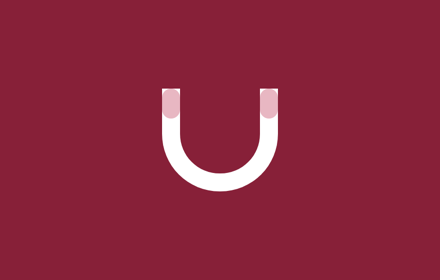
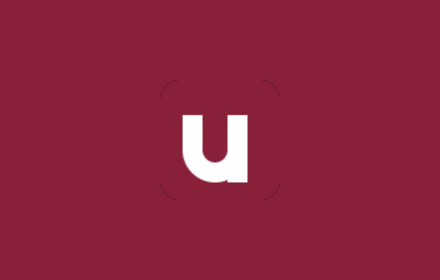
Refine extension branding

Changed region(s): [[0.3545, 0.3143, 0.65, 0.6857]]

diff --git a/entrypoints/sidepanel/App.tsx b/entrypoints/sidepanel/App.tsx
@@ -1,6 +1,6 @@
 import { CaptionsPanel } from './CaptionsPanel';
 import { useEffect, useRef, useState } from 'react';
-import { isRequest, type ErrorCode, type Request, type ListRequest, type Result } from '../../src/protocol';
+import { isRequest, type ErrorCode, type Request, type Result } from '../../src/protocol';
 import { queryActive } from '../../src/transport';
 import { ResultList } from './ResultList';
 const messages: Record<ErrorCode, string> = {
@@ -19,9 +19,9 @@ const messages: Record<ErrorCode, string> = {
   TAB_OPEN_FAILED: '새 탭을 열지 못했습니다. 목록을 다시 조회한 뒤 시도하세요.',
   BUSY: '이전 조회를 처리하고 있습니다. 잠시 후 다시 조회하세요.',
 };
-const tabs = [ ['COURSES_LIST', '내 과목'], ['ASSIGNMENTS_LIST', '과제'], ['DEADLINES_LIST', '마감일'], ['UPCOMING_LIST', 'Upcoming'], ['TODO_LIST', 'Todo'], ['RECORDINGS_LIST', '녹화 강의'], ['CAPTIONS', '자막 TXT'] ] as const;
+const tabs = [ ['COURSES_LIST', '내 과목'], ['ASSIGNMENTS_LIST', '과제'], ['DEADLINES_LIST', '마감일'], ['UPCOMING_LIST', '예정 일정'], ['TODO_LIST', 'Todo'], ['RECORDINGS_LIST', '녹화 강의'], ['CAPTIONS', '자막 TXT'] ] as const;
 export function App() {
-  const [view, setView] = useState<ListRequest['type'] | 'CAPTIONS'>('COURSES_LIST');
+  const [view, setView] = useState<(typeof tabs)[number][0]>('COURSES_LIST');
   const [course, setCourse] = useState('');
   const [start, setStart] = useState('');
   const [end, setEnd] = useState('');
@@ -29,13 +29,14 @@ export function App() {
   const generation = useRef(0);
   function clear() { generation.current++; setState({ status: 'idle' }); }
   useEffect(() => {
-    const reset = () => { generation.current++; setState({ status: 'idle' }); setCourse(''); };
+    const reset = () => { generation.current++; setState({ status: 'idle' }); setCourse(''); setView(previous => ['ASSIGNMENTS_LIST', 'DEADLINES_LIST', 'RECORDINGS_LIST'].includes(previous) ? 'COURSES_LIST' : previous); };
     const update = (_id: number, info: { status?: string }) => { if (info.status === 'loading') reset(); };
     chrome.tabs.onActivated.addListener(reset);
     chrome.tabs.onUpdated.addListener(update);
     return () => { chrome.tabs.onActivated.removeListener(reset); chrome.tabs.onUpdated.removeListener(update); generation.current++; };
   }, []);
   async function load(query: Request) {
+    if (!isRequest(query)) { clear(); return; }
     const current = ++generation.current;
     setState({ status: 'loading' });
     const result = await queryActive(query);
@@ -45,24 +46,31 @@ export function App() {
   const query: Request = needsCourse ? {version:1,type:view,course} : view === 'UPCOMING_LIST'
     ? {version:1,type:view,...(start ? {start_date:start} : {}),...(end ? {end_date:end} : {})} : {version:1,type:view === 'CAPTIONS' ? 'COURSES_LIST' : view};
   return <main>
-    <header><span className="mark" aria-hidden="true">u</span><div><h1>uniDock</h1><p>고려대학교 LMS</p></div><span className="badge">읽기 전용</span></header>
-    <section className="intro"><span className="eyebrow">MY CAMPUS</span><h2>오늘의 배움,<br/>한곳에서.</h2><p>과제와 일정을 기존 LMS 세션으로 확인하세요.</p></section>
-    <p className="hint">고려대학교와 제휴하지 않은 비공식 도구입니다. 조회를 누르면 현재 LMS 세션으로 과목·제출 상태·일정을 읽어 이 기기에 표시합니다. 개발자 서버로 전송하지 않습니다. <a href="privacy.html" target="_blank" rel="noreferrer">개인정보 처리방침</a></p>
-    <nav className="views" aria-label="조회 기능">{tabs.map(([type, label]) => <button key={type} aria-pressed={view === type} onClick={() => {clear();setView(type);}}>{label}</button>)}</nav>
-    {needsCourse && <label className="field">과목명<input value={course} maxLength={2000} placeholder="전체 과목명 또는 일부" onChange={event => {clear();setCourse(event.target.value);}}/><small>내 과목의 ‘과제 보기’로도 선택할 수 있습니다.</small></label>}
+    <header><span className="mark" aria-hidden="true">u</span><h1>uniDock</h1><span className="badge">읽기 전용</span></header>
+    <nav className="views" aria-label="주 메뉴">
+      <button aria-pressed={view === 'COURSES_LIST' || needsCourse} onClick={() => {setCourse('');setView('COURSES_LIST');void load({version:1,type:'COURSES_LIST'});}}>내 과목</button>
+      <button aria-pressed={view === 'UPCOMING_LIST'} onClick={() => {setCourse('');setView('UPCOMING_LIST');void load({version:1,type:'UPCOMING_LIST',...(start ? {start_date:start} : {}),...(end ? {end_date:end} : {})});}}>전체 일정</button>
+      <button aria-pressed={view === 'TODO_LIST'} onClick={() => {setCourse('');setView('TODO_LIST');void load({version:1,type:'TODO_LIST'});}}>Todo</button>
+      <button aria-pressed={view === 'CAPTIONS'} onClick={() => {clear();setCourse('');setView('CAPTIONS');}}>자막 TXT</button>
+    </nav>
+    {needsCourse && <section className="course-context">
+      <button className="back-link" onClick={() => {setCourse('');setView('COURSES_LIST');void load({version:1,type:'COURSES_LIST'});}}>← 과목 선택</button>
+      <h2>{course}</h2>
+      <nav className="subviews" aria-label="과목 메뉴">{([['ASSIGNMENTS_LIST','과제'],['DEADLINES_LIST','마감일'],['RECORDINGS_LIST','녹화 강의']] as const).map(([type,label]) => <button key={type} aria-pressed={view === type} onClick={() => {setView(type);void load({version:1,type,course});}}>{label}</button>)}</nav>
+    </section>}
     {view === 'UPCOMING_LIST' && <div className="date-fields"><label className="field">시작일 (선택)<input type="date" value={start} onChange={event => {clear();setStart(event.target.value);}}/></label><label className="field">종료일 (선택)<input type="date" value={end} onChange={event => {clear();setEnd(event.target.value);}}/></label></div>}
     {view === 'UPCOMING_LIST' && start && end && start > end && <p className="filter-error">종료일은 시작일 이후여야 합니다.</p>}
     {view === 'CAPTIONS' ? <CaptionsPanel/> : <>
-    <div className="toolbar"><h3>{tabs.find(([type]) => type === view)?.[1]}</h3><button onClick={() => void load(query)} disabled={state.status === 'loading' || !isRequest(query)}>{state.status === 'loading' ? '조회 중…' : '조회'}</button></div>
+    <div className="toolbar"><h3>{tabs.find(([type]) => type === view)?.[1]}</h3><button onClick={() => void load(query)} disabled={state.status === 'loading' || !isRequest(query)}>{state.status === 'loading' ? '조회 중…' : state.status === 'success' ? '새로고침' : '조회'}</button></div>
     {view === 'RECORDINGS_LIST' && <p className="hint">외부 도구 항목 중 녹화 강의 후보를 표시합니다. LTI 탭은 LMS를 거쳐 열립니다. 재생은 열린 LMS에서 직접 조작하세요. LMS 자체 재생으로 시청·출석 기록이 반영될 수 있습니다.</p>}
     {view === 'DEADLINES_LIST' && <p className="hint">모든 과제를 표시합니다. ‘남은 후보’는 미제출·잠금 해제·미래 마감 기준이며 실제 제출 가능 여부는 LMS에서 확인하세요.</p>}
     <section aria-live="polite" aria-busy={state.status === 'loading'}>
-      {state.status === 'idle' && <div className="notice"><strong>조회할 준비가 되었나요?</strong><p>LMS 탭을 선택하고 조회를 누르세요.</p></div>}
+      {state.status === 'idle' && <div className="notice"><strong>{view === 'COURSES_LIST' ? '내 과목부터 시작하세요.' : '일정을 확인하세요.'}</strong><p>{view === 'COURSES_LIST' ? 'LMS 탭을 선택하고 조회를 누르세요. 과목을 선택하면 과제·마감일·녹화 강의를 확인할 수 있습니다.' : view === 'TODO_LIST' ? '조회 버튼을 눌러 할 일을 불러오세요.' : '조회 버튼을 눌러 선택한 기간의 일정을 불러오세요.'}</p></div>}
       {state.status === 'loading' && <div className="notice">목록을 불러오고 있습니다…</div>}
       {state.status === 'error' && <div className="notice error"><strong>{state.code === 'LOGIN_REQUIRED' ? '로그인 필요' : '조회 안내'}</strong><p>{messages[state.code]}</p></div>}
       {state.status === 'success' && <ResultList result={state} onRecordings={name => {setCourse(name);setView('RECORDINGS_LIST');void load({version:1,type:'RECORDINGS_LIST',course:name});}} onRecording={handle => {void load({version:1,type:'RECORDING_OPEN',handle});}} onCourse={name => {setCourse(name);setView('ASSIGNMENTS_LIST');void load({version:1,type:'ASSIGNMENTS_LIST',course:name});}}/>}
     </section></>}
     <a className="lms-link" href="https://mylms.korea.ac.kr/" target="_blank" rel="noreferrer">LMS 열기 ↗</a>
-    <footer>기존 로그인 세션만 사용합니다.<br/>직접 다운로드한 자막 TXT 외에는 저장하지 않습니다.</footer>
+    <footer>조회 시 현재 LMS 세션의 정보를 이 기기에 표시합니다.<br/>개발자 서버로 전송하지 않으며, 직접 다운로드한 자막 TXT 외에는 저장하지 않습니다. <a href="privacy.html" target="_blank" rel="noreferrer">개인정보 처리방침</a><p>고려대학교와 제휴하지 않은 비공식 도구입니다.</p></footer>
   </main>;
 }

diff --git a/entrypoints/sidepanel/style.css b/entrypoints/sidepanel/style.css
@@ -1,3 +1,5 @@
 :root{font-family:system-ui,-apple-system,BlinkMacSystemFont,sans-serif;color:#24242b;background:#f8f7f5;font-synthesis:none}*{box-sizing:border-box}body{margin:0}main{padding:24px 20px;max-width:560px;margin:auto}header{display:flex;align-items:center;gap:10px}.mark{display:grid;place-items:center;background:#872038;color:white;width:38px;height:38px;border-radius:12px;font-size:28px;font-weight:800}h1{font-size:20px;letter-spacing:-.7px;margin:0}header p{font-size:11px;margin:2px 0;color:#72717a}.badge{margin-left:auto;font-size:10px;color:#872038;border:1px solid #dcc4c9;border-radius:20px;padding:5px 8px;white-space:nowrap}.intro{margin:34px 0 30px}.eyebrow{font-size:10px;letter-spacing:2px;font-weight:700;color:#872038}h2{font-size:32px;line-height:1.35;letter-spacing:-1.4px;margin:12px 0}.intro p{font-size:13px;color:#6a6770;line-height:1.7}.toolbar{display:flex;justify-content:space-between;align-items:center;margin-bottom:16px}h3{font-size:16px;margin:0}button{border:0;background:#872038;color:white;padding:10px 15px;border-radius:9px;font:inherit;font-size:12px;font-weight:600;cursor:pointer}button:disabled{opacity:.55;cursor:wait}button:focus-visible,a:focus-visible{outline:3px solid #bd8290;outline-offset:4px}.notice{background:#fff;border:1px solid #e7e3df;border-radius:14px;padding:22px 18px;font-size:13px;line-height:1.8}.notice p{color:#6a6770;margin:6px 0 0}.error{border-color:#dcb7bf}.count{font-size:12px;color:#6a6770}ul{list-style:none;padding:0;margin:0}li{display:flex;gap:14px;align-items:center;background:#fff;border:1px solid #e7e3df;padding:18px 14px;border-radius:12px;margin:10px 0;font-size:14px;line-height:1.5;overflow-wrap:anywhere}.course-icon{color:#872038;background:#f4eaec;border-radius:8px;padding:8px}.lms-link{display:block;text-align:center;color:#872038;font-size:12px;margin:22px 0;text-decoration:none}footer{border-top:1px solid #e7e3df;padding-top:20px;font-size:11px;line-height:1.9;color:#76727a}@media(prefers-reduced-motion:no-preference){button{transition:opacity .15s}}
 .views{display:flex;gap:4px;flex-wrap:wrap;margin:0 0 22px}.views button{background:transparent;color:#625960;padding:9px 10px}.views button[aria-pressed=true]{background:#872038;color:white}.field{display:flex;flex-direction:column;gap:7px;font-size:12px;margin-bottom:18px;min-width:0}.field input{font:inherit;width:100%;min-width:0;border:1px solid #d8d0d3;border-radius:8px;padding:10px;background:white;color:#24242b}.field input:focus-visible{outline:2px solid #bd8290}.field small,.hint{font-size:11px;color:#71666c;line-height:1.7}.date-fields{display:grid;grid-template-columns:1fr 1fr;gap:10px}.filter-error{font-size:12px;color:#872038}.item-body{min-width:0;flex:1}.item-body p{font-size:12px;color:#71666c;margin:6px 0;line-height:1.7}.item-badge{font-size:11px;color:#872038;display:inline-block;margin-top:7px}.secondary{background:#f4eaec;color:#872038;flex-shrink:0;padding:8px}.hint{margin:-4px 0 15px}
 .recording-actions{display:flex;gap:8px;flex-wrap:wrap;margin-top:14px}
+
+main{min-height:100vh;display:flex;flex-direction:column}header{margin-bottom:26px}.mark{font-size:0;background:#872038 url('/icons/128.png') center/51px no-repeat}.views{display:grid;grid-template-columns:repeat(4,1fr);padding:4px;border:1px solid #e7e3df;background:#efedeb;border-radius:12px;gap:4px;margin-bottom:24px}.views button{padding:10px 5px;white-space:nowrap}.course-context{margin-bottom:22px}.course-context h2{font-size:20px;line-height:1.5;letter-spacing:-.5px;margin:12px 0 16px;overflow-wrap:anywhere}.back-link{background:transparent;color:#71666c;padding:0;font-size:12px}.subviews{display:flex;gap:6px;border-bottom:1px solid #e7e3df;margin-bottom:18px}.course-context .subviews{margin-bottom:0}.subviews button{background:transparent;color:#71666c;border-radius:0;padding:10px 12px;border-bottom:2px solid transparent}.subviews button[aria-pressed=true]{color:#872038;border-bottom-color:#872038}.toolbar{gap:12px}footer{margin-top:auto}footer p{margin:12px 0 0}footer a{color:inherit}button:disabled{cursor:default}

diff --git a/scripts/store-render.tsx b/scripts/store-render.tsx
@@ -3,11 +3,11 @@ import fs from 'node:fs';
 import { ResultList } from '../entrypoints/sidepanel/ResultList';
 import fixture from '../tests/fixtures/python-contract.json';
 const css = fs.readFileSync('entrypoints/sidepanel/style.css','utf8');
-const header = <><header><span className="mark">u</span><div><h1>uniDock</h1><p>고려대학교 LMS</p></div><span className="badge">읽기 전용</span></header><section className="intro"><span className="eyebrow">MY CAMPUS</span><h2>오늘의 배움,<br/>한곳에서.</h2><p>비공식 학습 도우미 · 샘플 데이터</p></section></>;
+const header = <header><span className="mark" style={{backgroundImage:"url('../../public/icons/128.png')"}}>u</span><h1>uniDock</h1><span className="badge">읽기 전용</span></header>;
 for (const kind of ['assignments','recordings'] as const) {
   const result = kind === 'assignments' ? {status:'success' as const,assignments:fixture.expected.assignments} : {status:'success' as const,recordings:[{module:'1주차',title:'1주차 1차시',type:'ExternalTool' as const,lmsHandle:'sample-1',launchHandle:'sample-2'},{module:'1주차',title:'1주차 2차시',type:'ExternalTool' as const,lmsHandle:'sample-3',launchHandle:'sample-4'}]};
   const markup=renderToStaticMarkup(<main>{header}<h3>{kind==='assignments'?'과제':'녹화 강의'}</h3><ResultList result={result} onCourse={() => {}} onRecording={() => {}}/><footer>실제 컴포넌트 · 공개 가상 fixture<br/>자동재생 및 제출 기능 없음</footer></main>);
   fs.writeFileSync(`store/assets/${kind}.html`,`<!doctype html><html lang="ko"><meta charset="utf-8"><style>${css}body{width:1280px;height:800px;display:flex;align-items:center;justify-content:center;gap:100px;background:#eee9e8}aside{width:480px}aside h1{font-size:64px}aside p{font-size:22px;line-height:1.8}main{width:380px;max-height:750px;overflow:hidden;background:#f8f7f5;border:1px solid #ded7d8;border-radius:20px;margin:0;box-shadow:0 20px 60px #4f29351c}</style><aside><h1>uniDock</h1><p>${kind==='assignments'?'과제와 마감일을<br>한눈에 확인하세요.':'녹화 강의를 찾고<br>LMS에서 직접 여세요.'}</p><p style="font-size:14px;color:#766c70">실제 UI 구성요소를 사용한 샘플 화면<br>고려대학교와 제휴하지 않은 비공식 확장</p></aside>${markup}</html>`);
 }
 
-fs.writeFileSync('store/assets/promo.html','<!doctype html><meta charset="utf-8"><style>body{margin:0;width:880px;height:560px;background:#872038;display:grid;place-items:center}.u{width:160px;height:170px;border:36px solid white;border-top:0;border-radius:0 0 115px 115px;position:relative}.u:before,.u:after{content:"";position:absolute;top:0;width:36px;height:60px;background:#e8b7c2;border-radius:18px}.u:before{left:-36px}.u:after{right:-36px}</style><div class="u"></div>');
+fs.writeFileSync('store/assets/promo.html','<!doctype html><meta charset="utf-8"><style>body{margin:0;width:880px;height:560px;background:#872038;display:grid;place-items:center}img{width:320px;height:320px}</style><img src="../../public/icons/128.png" alt="u">');
